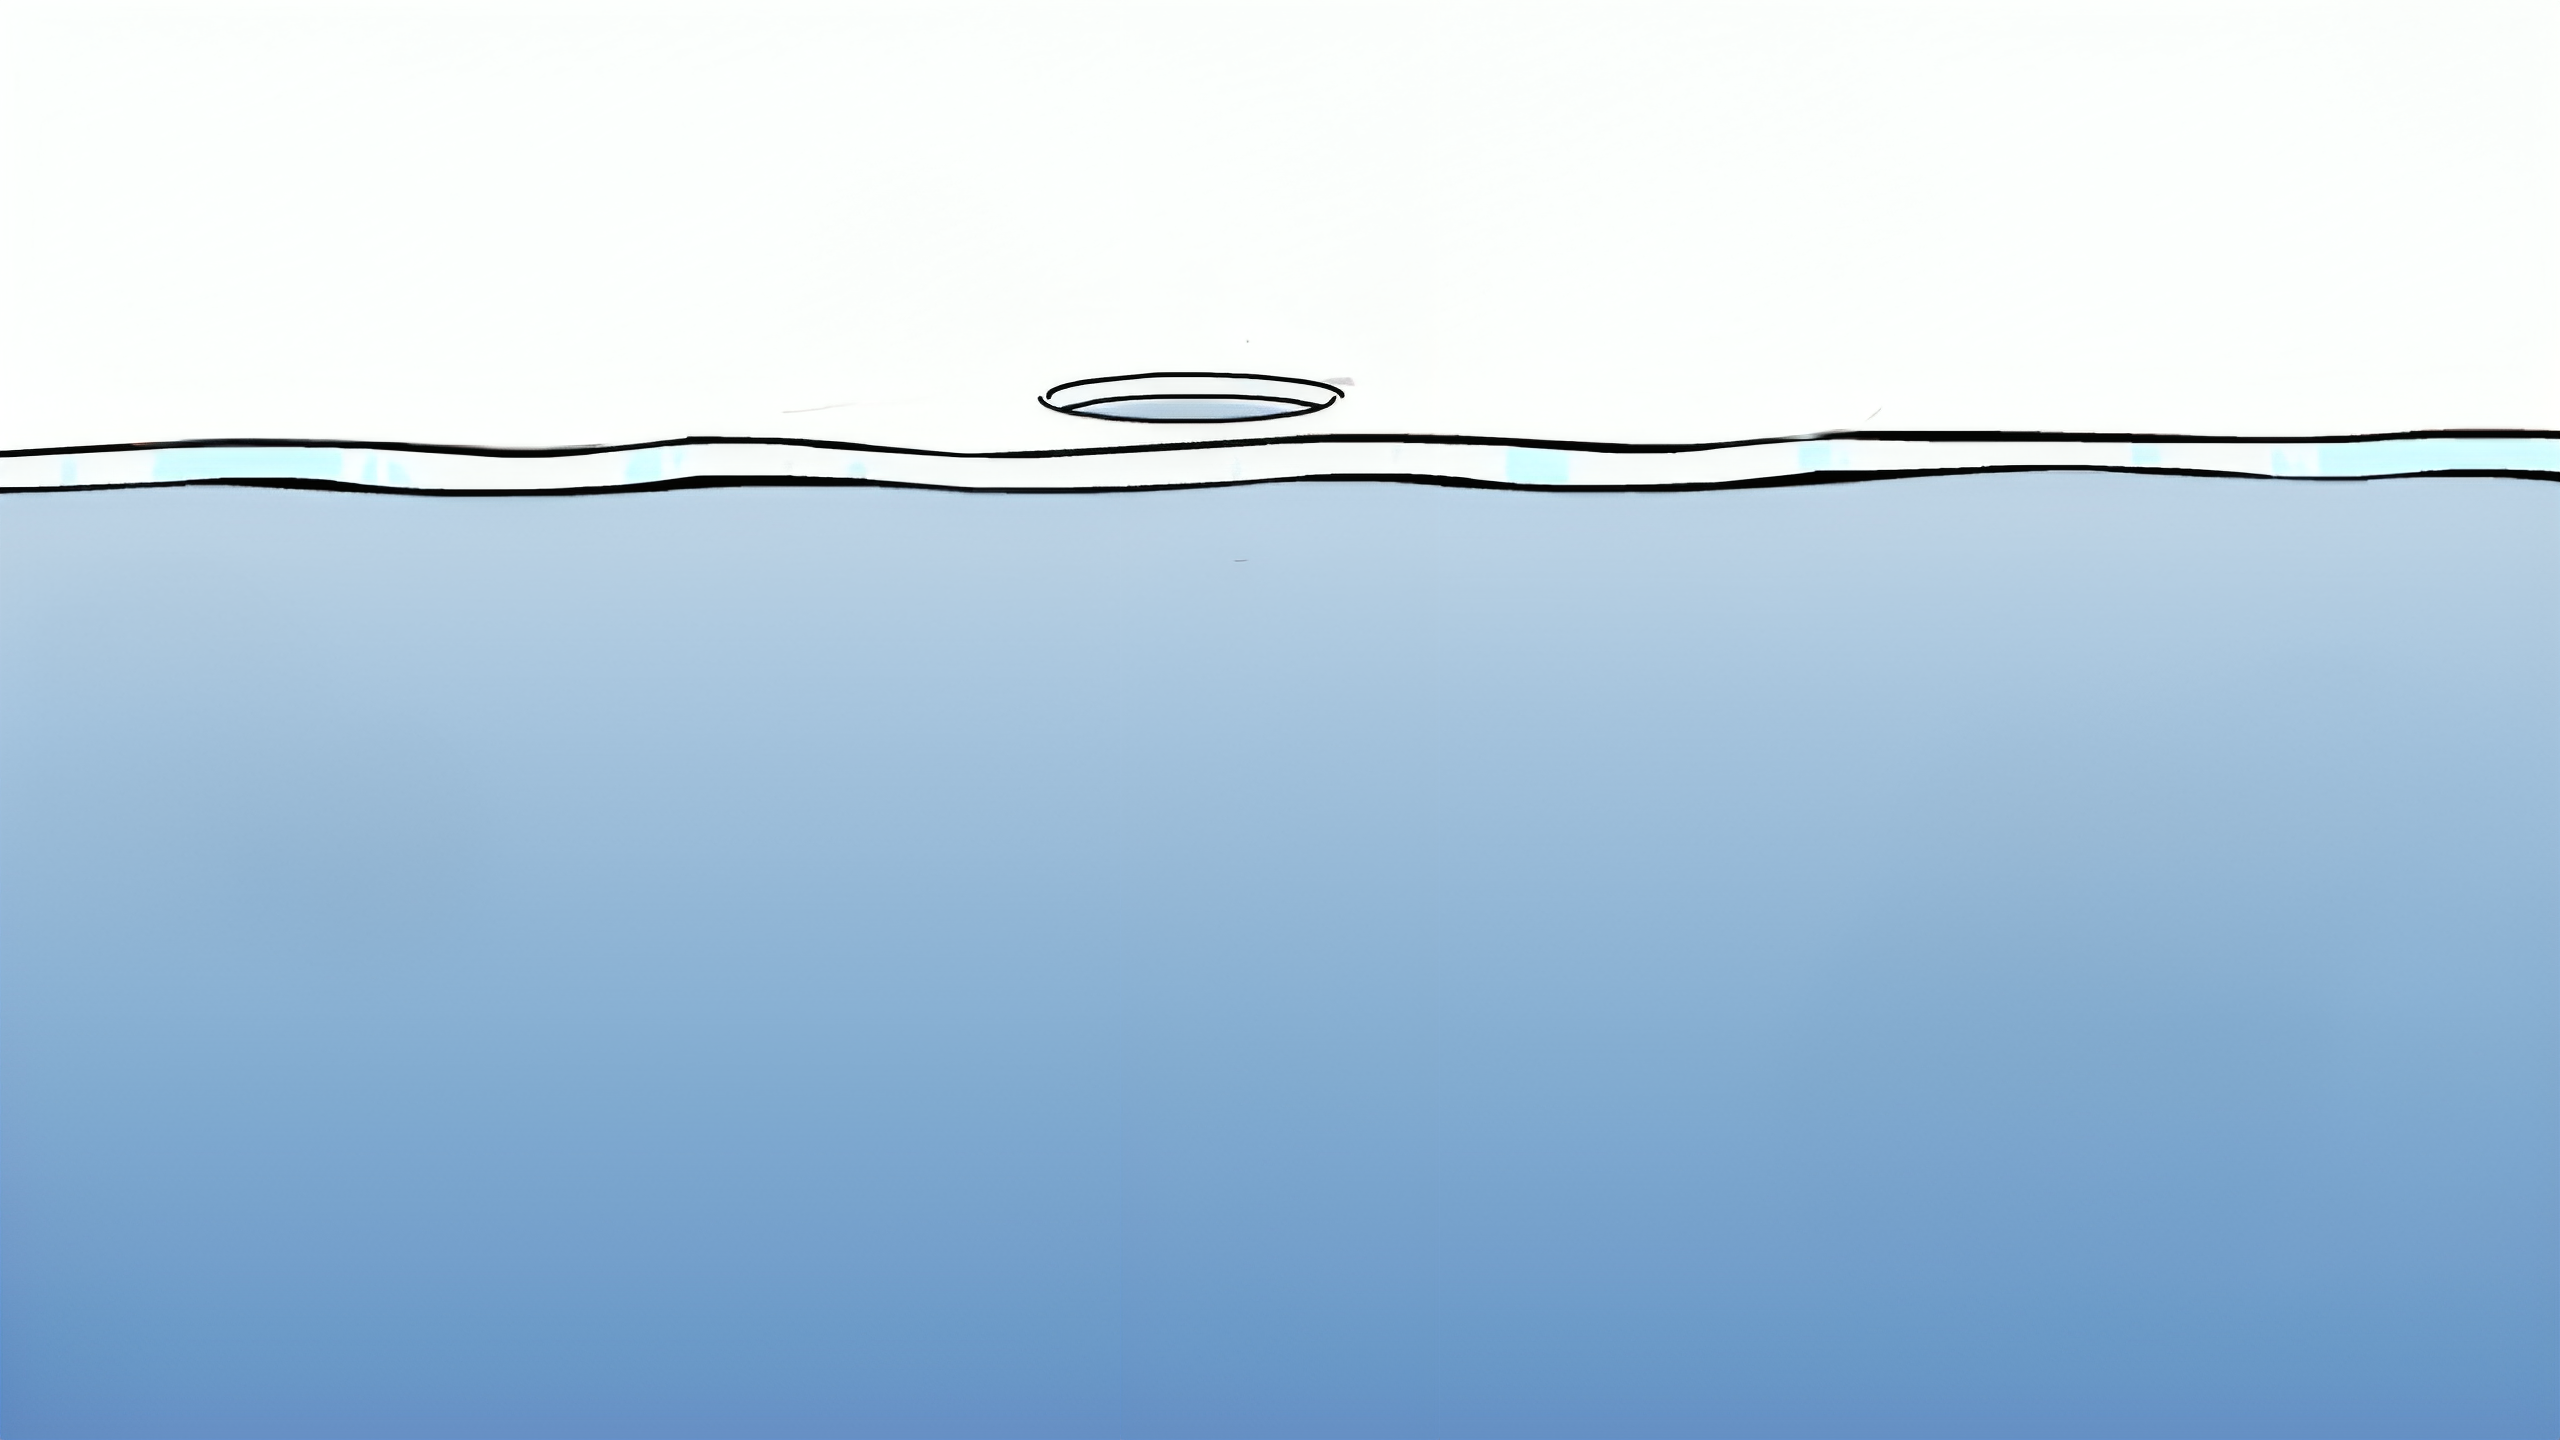
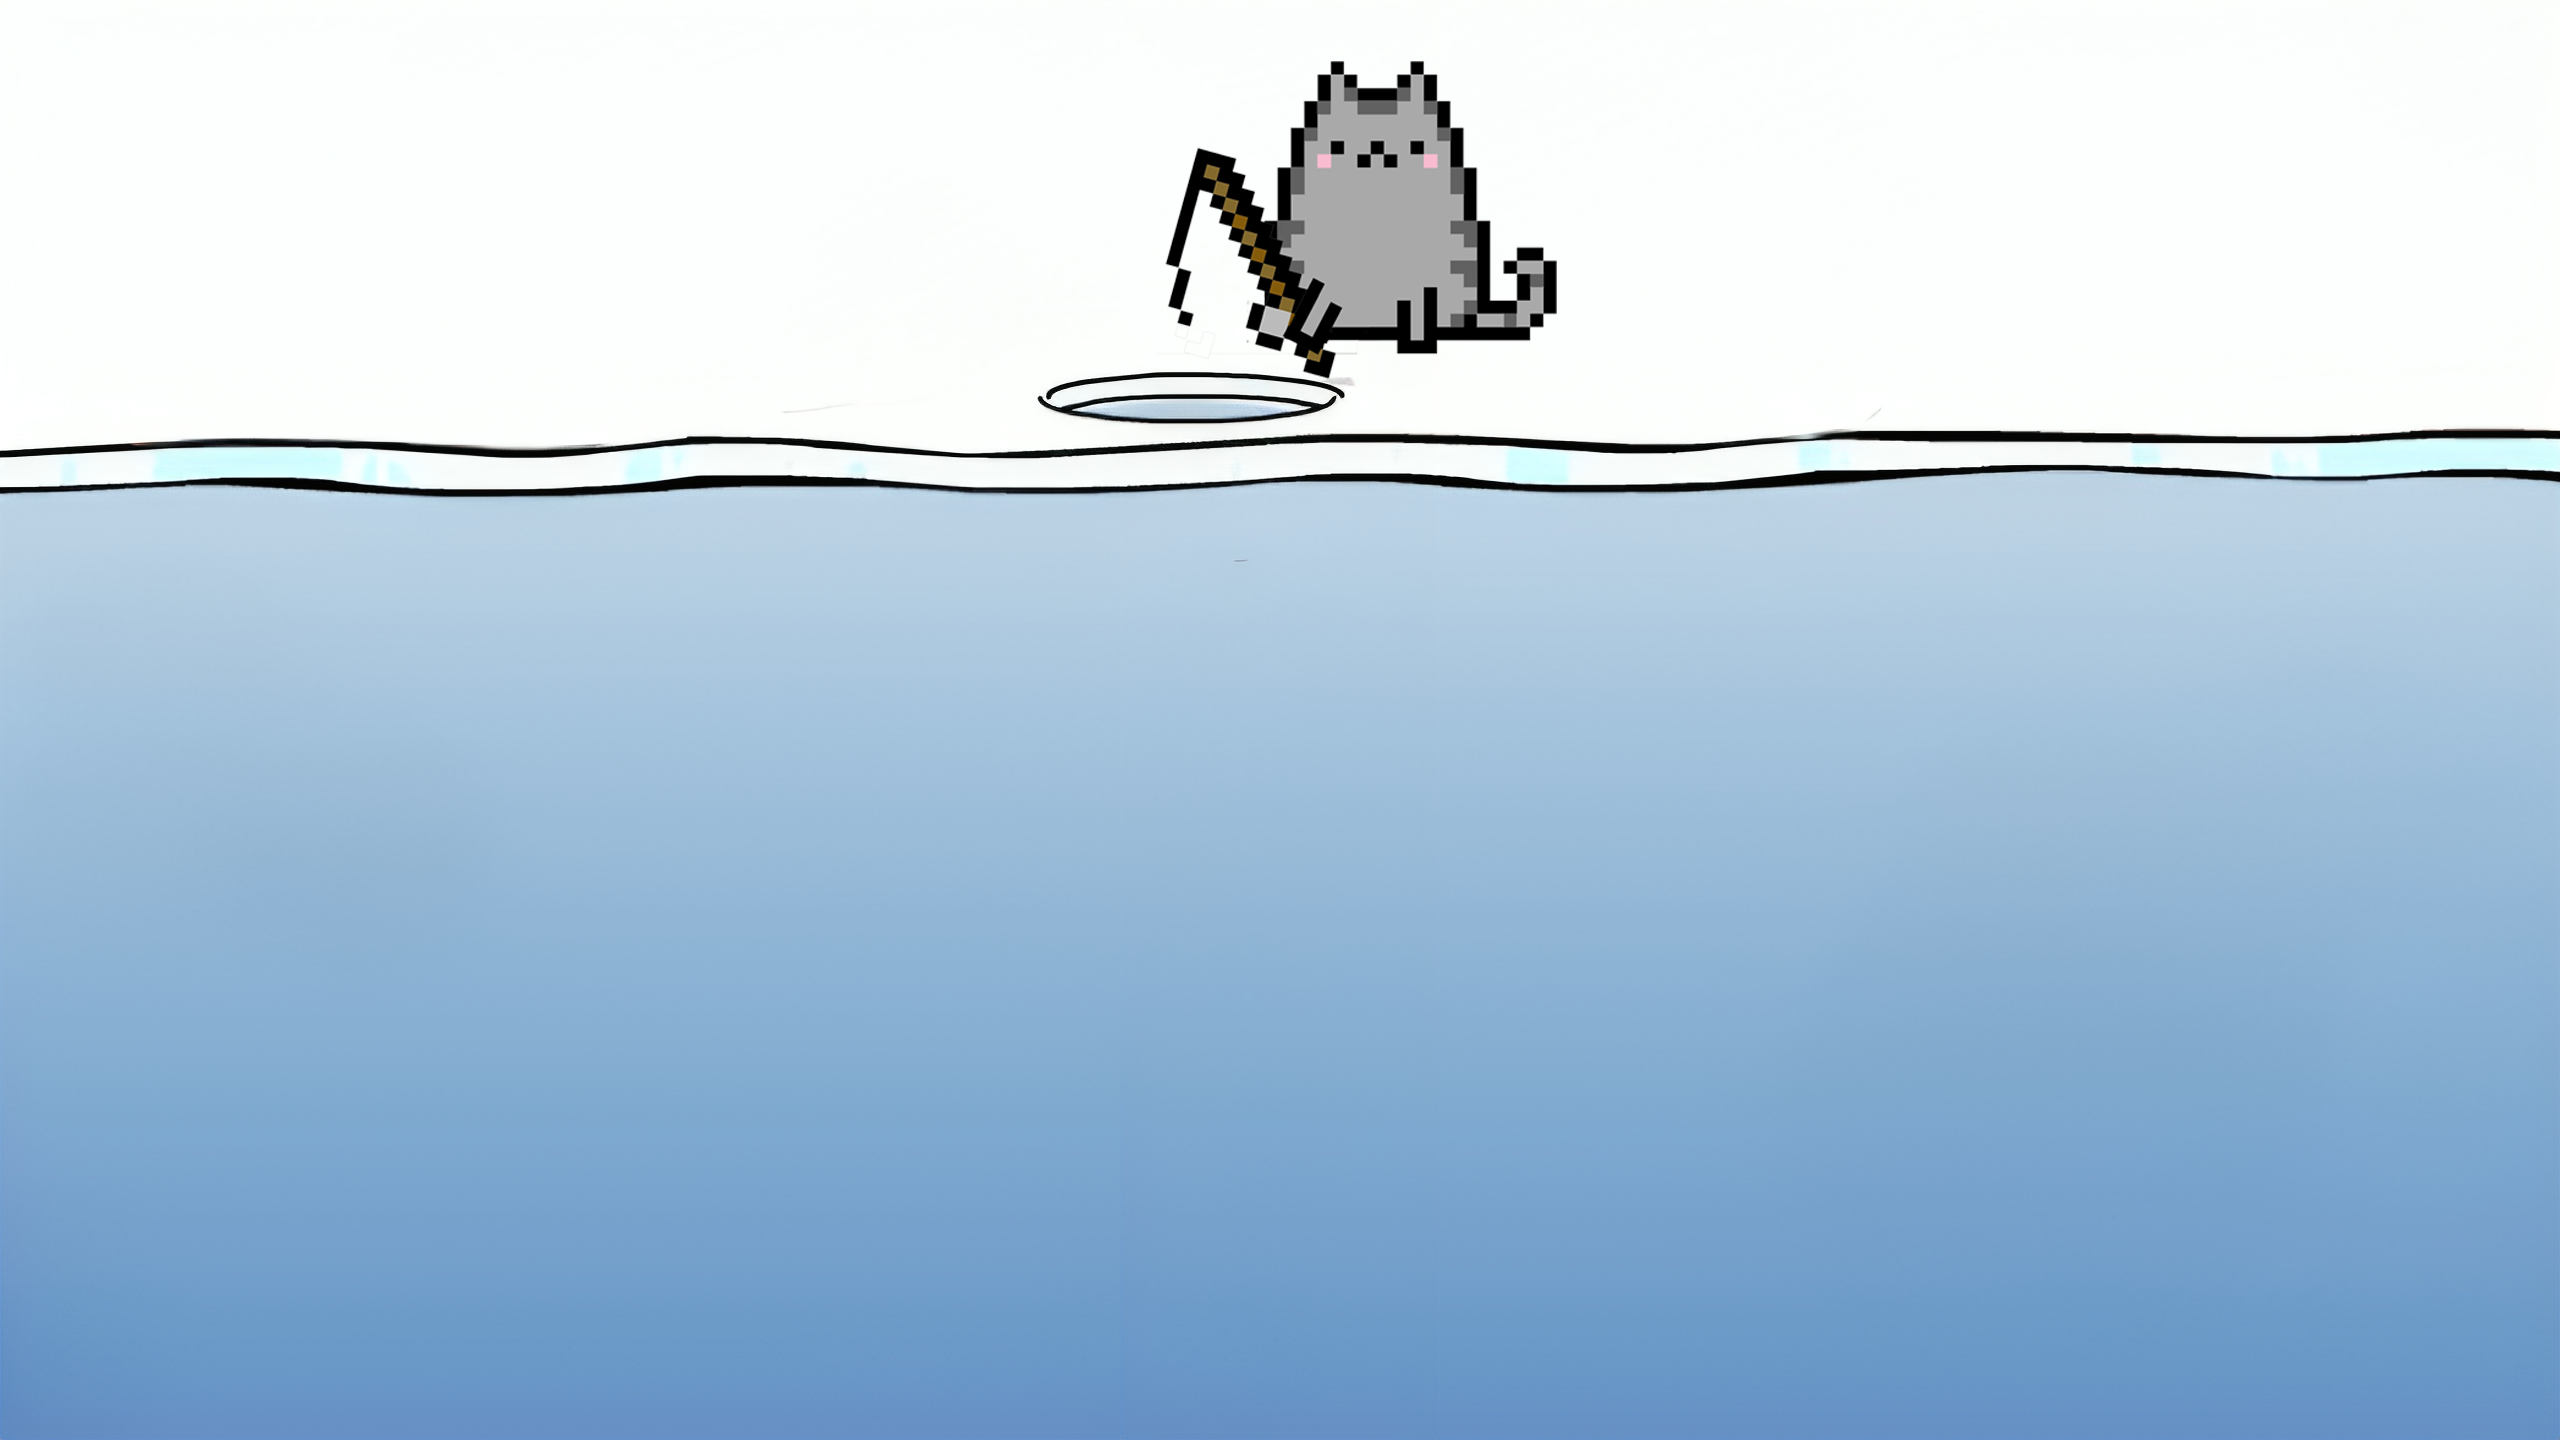
added everything in a wrapper, and made the line work go through the hole.

Changed region(s): [[0.4375, 0.0312, 0.625, 0.2812]]

diff --git a/css/game.css b/css/game.css
@@ -1,32 +1,46 @@
-*{
-    padding: 0;
+* {
     margin: 0;
+    padding: 0;
     box-sizing: border-box;
 }
 
-.game-bg{
-    position: fixed;
-    top: 0;
-    right: 0;
-    bottom: 0;
-    left: 0;
-    background: url("../images/game-bg.png") no-repeat center center fixed;
+body {
+    display: flex;
+    justify-content: center;
+    align-items: center;
+    height: 100vh;
+    background: #111;
+}
+
+.game-wrapper {
+    position: relative;
+    width: 1280px;
+    height: 720px;
+    border: 6px solid black;
+    overflow: hidden;
+    background: black;
+}
+
+.game-bg {
+    position: absolute;
+    inset: 0;
+    background: url("../images/game-bg.png") no-repeat center;
     background-size: cover;
-    z-index: -1;
 }
 
-#cat-fishing{
-    position: fixed;
-    width: 250px;
-    top: -10px;
-    right: 600px; 
-}
-
-#fishing-line{
-    position: fixed;
-    top: 31vh;
-    left: 98vh;
+#fishing-line {
+    position: absolute;
+    top: 155px;
+    left: 585px;
     width: 6px;
     height: 0;
     background-color: black;
+}
+
+#line-mask {
+    position: absolute;
+    inset: 0;
+    pointer-events: none;
+    background: url("../images/linemask.png") no-repeat center;
+    background-size: cover;
 }

diff --git a/game.html b/game.html
@@ -1,5 +1,6 @@
 <!DOCTYPE html>
 <html lang="en">
+
 <head>
     <link rel="stylesheet" href="./css/game.css">
     <script defer src="./js/game.js"></script>
@@ -7,10 +8,13 @@
     <meta name="viewport" content="width=device-width, initial-scale=1.0">
     <title>The Game</title>
 </head>
-<body>
-    <div class="game-bg"></div>
-    <img id="cat-fishing" src="./images/catfishing.png" alt="cat fishing">
-    <div id="fishing-line"></div>
-</body>
-</html>
 
+<body>
+    <div class="game-wrapper">
+        <div class="game-bg"></div>
+        <div id="fishing-line"></div>
+        <div id="line-mask"></div>
+    </div>
+</body>
+
+</html>
